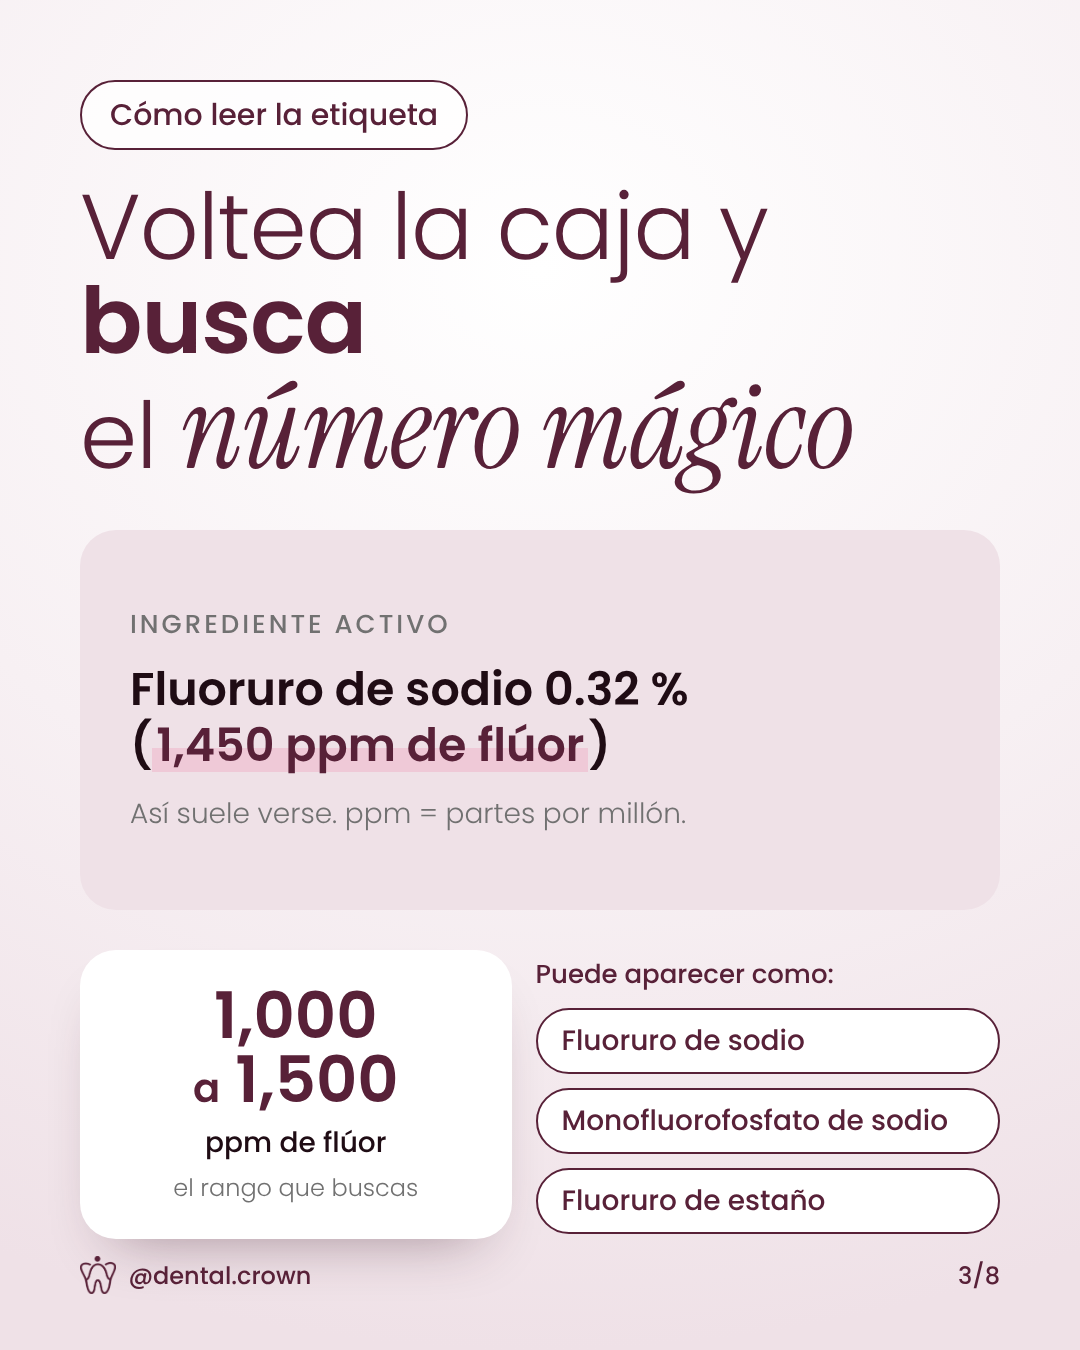
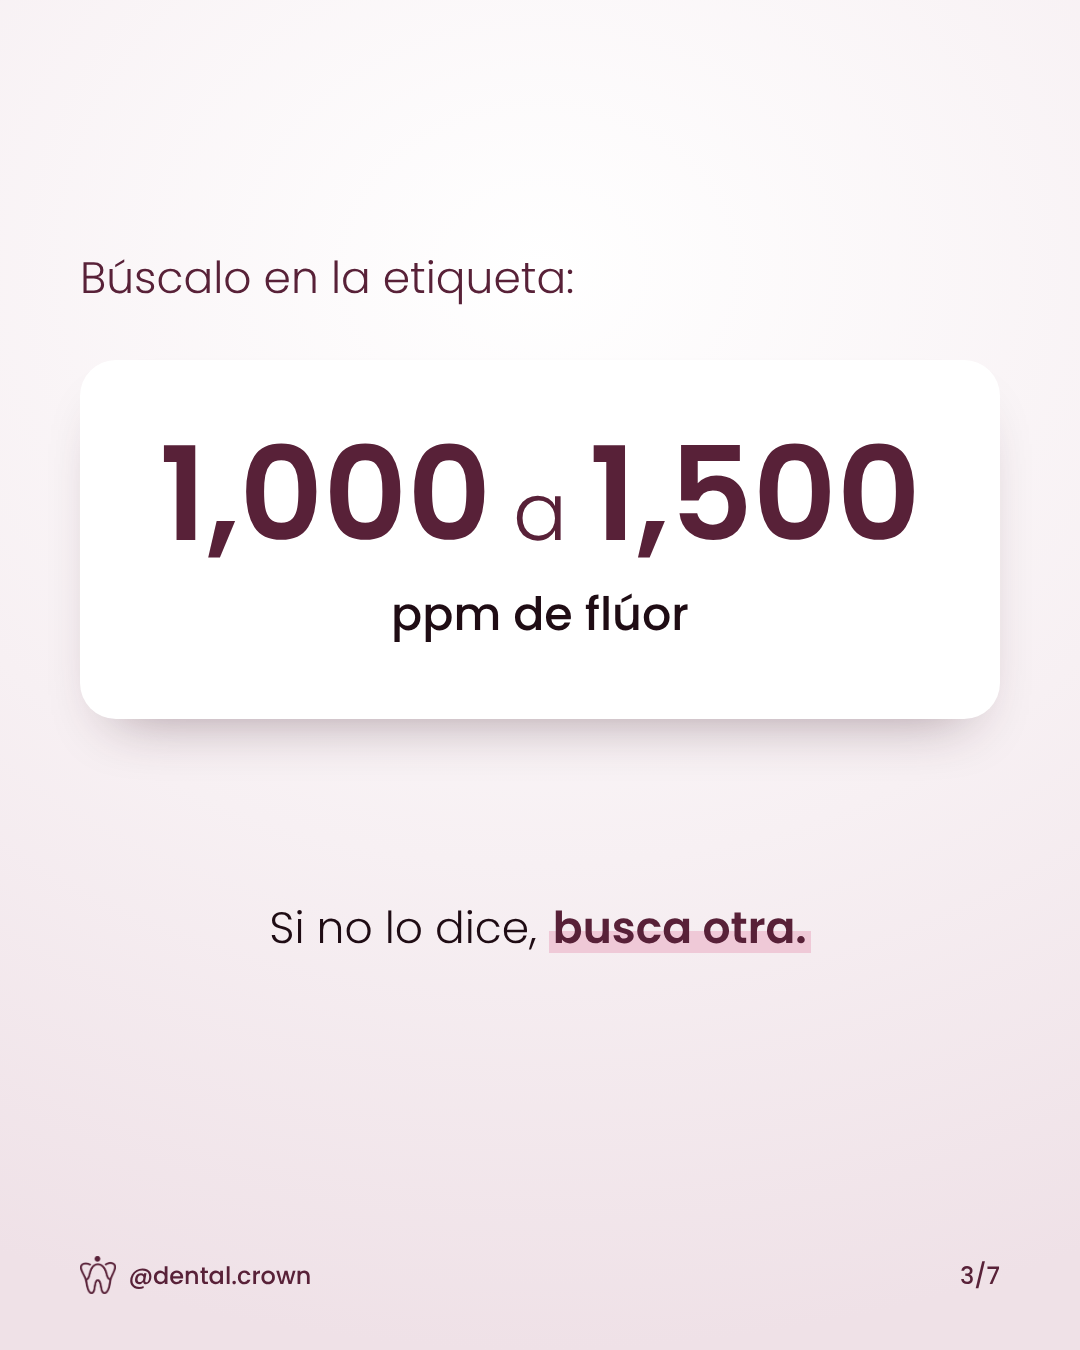
Carrusel pastas dentales: versión con mucho menos texto (7 láminas)
Claude-Session: https://claude.ai/code/session_01EttaFvckRqUE3QgK7HqTfA

diff --git a/post-pastas-dentales/texto-publicacion.md b/post-pastas-dentales/texto-publicacion.md
@@ -1,26 +1,17 @@
 # Carrusel: ¿Pagas de más por tu pasta?
 
-8 láminas de 1080 × 1350 (`pastas-1.png` a `pastas-8.png`).
+7 láminas de 1080 × 1350 (`pastas-1.png` a `pastas-7.png`).
 
 ## Texto para la publicación
 
-¿Sabías que una pasta de $30 y una de $140 pueden protegerte igual contra la caries? 🪥
+Una pasta de $30 y una de $140 pueden protegerte igual contra la caries. 🪥
 
-Lo que de verdad previene la caries es el flúor. Búscalo en la etiqueta: entre 1,000 y 1,500 ppm.
+Lo que importa es el flúor: búscalo en la etiqueta, entre 1,000 y 1,500 ppm.
 
-Profeco analizó 46 pastas dentales en 2026 y todas cumplieron con el flúor que deben tener. Lo caro paga extras (sensibilidad, blanqueamiento, sabor), no más protección.
+¿Dudas sobre cuál usar? Escríbenos por WhatsApp.
 
-Desliza para saber cuál es para ti, por qué la de carbón no es buena idea y el truco que casi nadie hace al cepillarse.
-
-¿Tienes dudas sobre tu pasta? Escríbenos por WhatsApp y te ayudamos a elegir.
-
-#DentalCrown #SaludBucal #PastaDental #Flúor #CuidadoDental #Guadalajara
+#DentalCrown #SaludBucal #PastaDental #Flúor #Guadalajara
 
 ## Fotos que faltan (lámina 5)
 
-Los tres recuadros punteados son para fotos de producto:
-1. Colgate y Crest (versión convencional)
-2. Sensodyne
-3. Oral-B 3D White
-
-Sirven fotos con fondo blanco o recortadas. Si no las consigues, se pueden quitar los recuadros y dejar solo el texto.
+Cuatro recuadros punteados para fotos de producto: Colgate o Crest, Sensodyne, una pasta para encías y Oral-B 3D White. Sirven con fondo blanco o recortadas.
